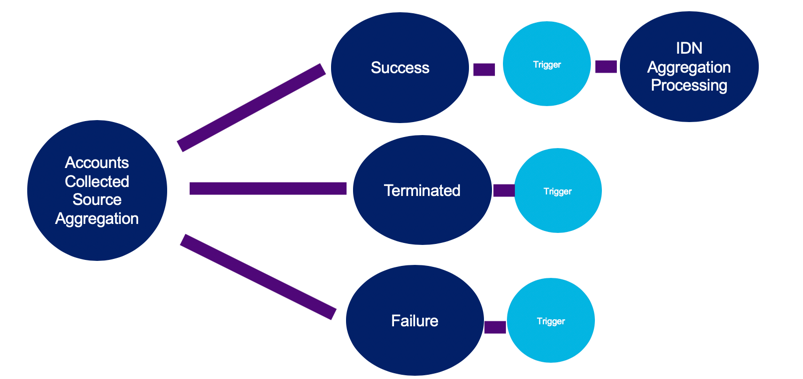
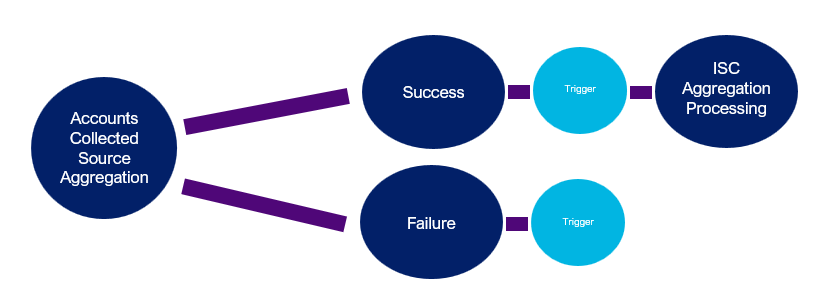
Removed reference to terminated status and added new diagram

Changed region(s): [[0.0311, 0.0298, 0.9651, 1.0], [0.0311, 0.6258, 0.0623, 0.6556]]

diff --git a/docs/extensibility/event-triggers/available/account-aggregation-completed.md b/docs/extensibility/event-triggers/available/account-aggregation-completed.md
@@ -20,7 +20,6 @@ The platform has introduced an event trigger within the Source Aggregation workf
 After the initial collection of accounts in the source system during aggregation completes, some uses cases for this trigger include the following:
 
 - Notify an administrator that Identity Security Cloud was able to successfully connect to the source system and collect source accounts.
-- Notify an administrator when the aggregation is terminated manually during the account collection phase.
 - Notify an administrator or system (e.g. PagerDuty) that Identity Security Cloud failed to collect accounts during aggregation and indicate required remediation for the source system.
 
 :::info
@@ -69,13 +68,10 @@ In this example, there are 10 changed accounts (`scanned` (200) - `unchanged` - 
 
 > This event trigger fires even without changed accounts. The unchanged count will match the scanned accounts in the response.
 
-The status of the aggregation can be one of three possible values:
+The status of the aggregation can be one of two possible values:
 
 - **Success**: Account collection was successful and aggregation can move to the next step.
 - **Error**: There is a failure in account collection or an issue connecting to the source. The `errors` vary by source.
-- **Termination**: The aggregation was terminated during the account collection phase. Aggregation can be terminated when the account deletion threshold is exceeded. For example, an account delete threshold of 10% is set by default for the source, and if the number of `removed` accounts for the above example is 21 (more than 10% of `scanned` accounts (200)), the aggregation is cancelled.
-
-![Account_Delete_Threshold](./img/aggregation-delete-threshold.png)
 
 ## Additional Information and Links
 
